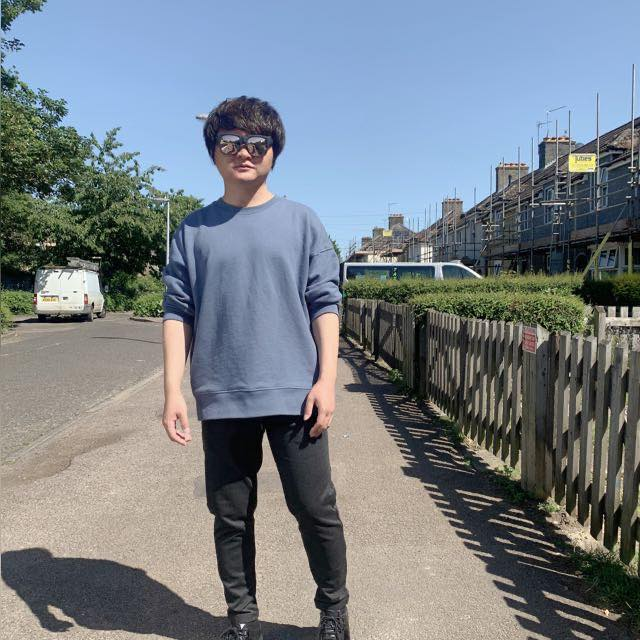
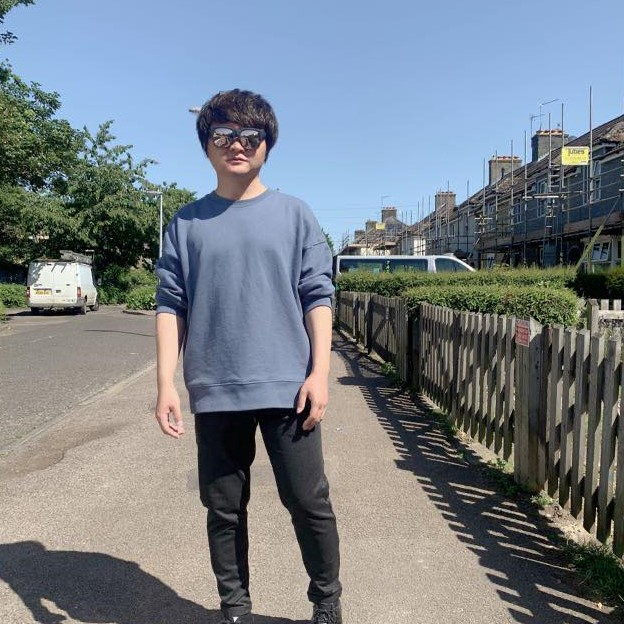
change size

diff --git a/index.html b/index.html
@@ -49,9 +49,10 @@
 							<!-- <div class="logo"><span class="icon fa-envelope"><a href="mailto:jy380@cam.ac.uk">jy380@cam.ac.uk</a></span></div> -->
 							<h2>Dr.Yu, Jiaming</h2>
 							<p>My personal portfolio - Curriculum Vitae</a></p>
-							<p><span class="image left"><img src="images/me.jpg" alt="my_photo" height="300" width="300" /></span>Determined and studious, with a lively interest in a broad range of subjects, it is electronics and bioinformatics
-								which engages my intellect most keenly. Analytically-minded and skilled in solving problems with creative
-								solutions, my commitment to this area of study is total.</a></p>
+							<p><span class="image left"><img src="images/me.jpg" alt="my_photo" /></span>Determined and studious, with a lively interest in a broad range of subjects, 
+								it is bio-electronics, computational physics and nanotechnologies which engages my intellect most keenly. Analytically-minded and skilled in solving problems with creative
+								solutions, my commitment to this area of study is total. <br> <p>I finished my PhD at the Unversity of Cambridge and will continue my journey in acadamic and so on.</p>
+							</a></p>
 						</div>
 					</section>
 
